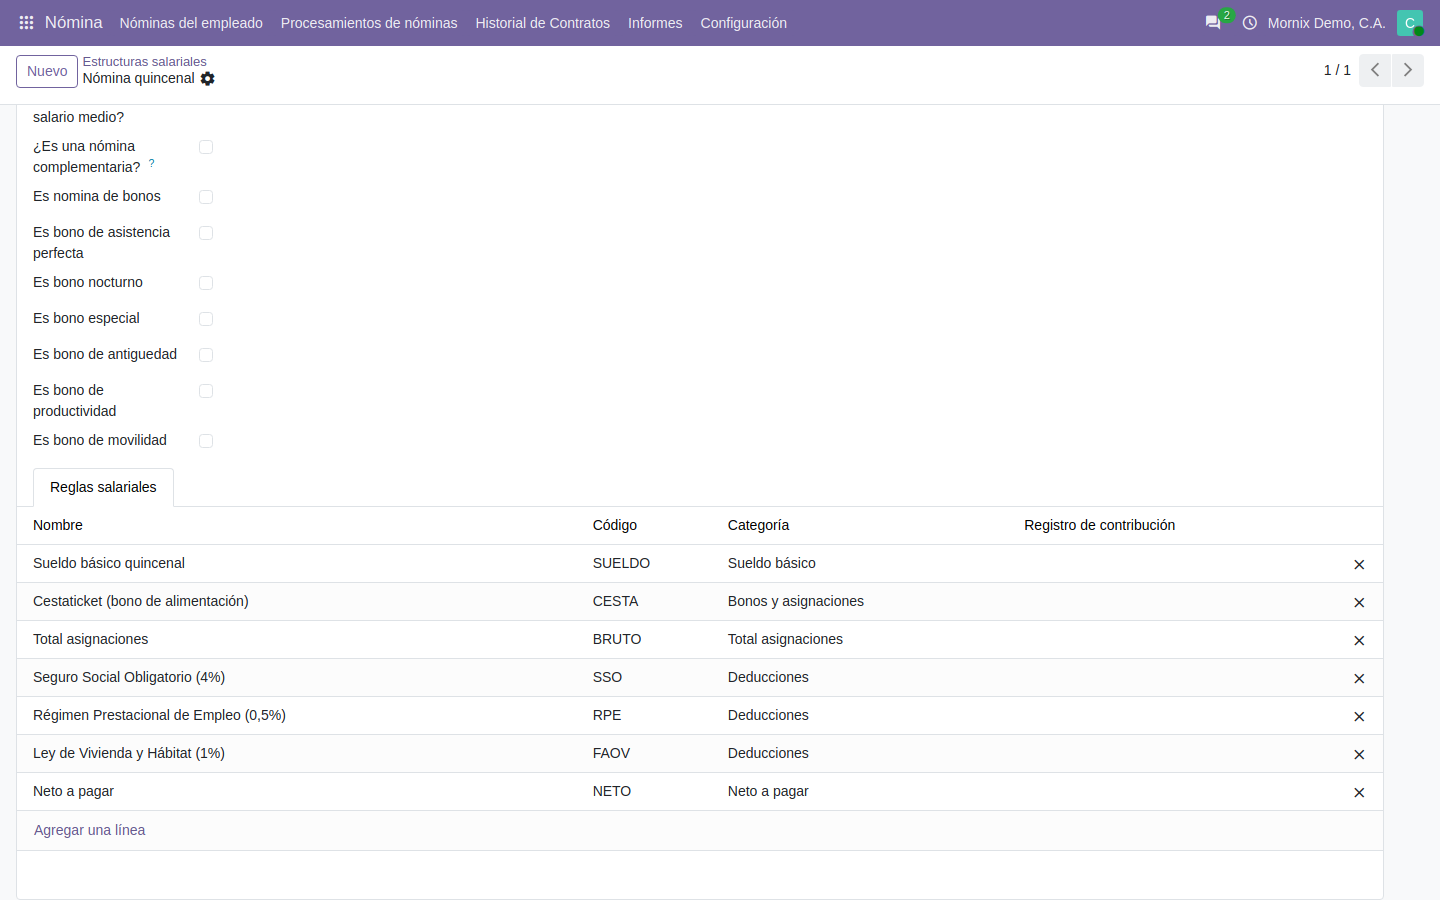
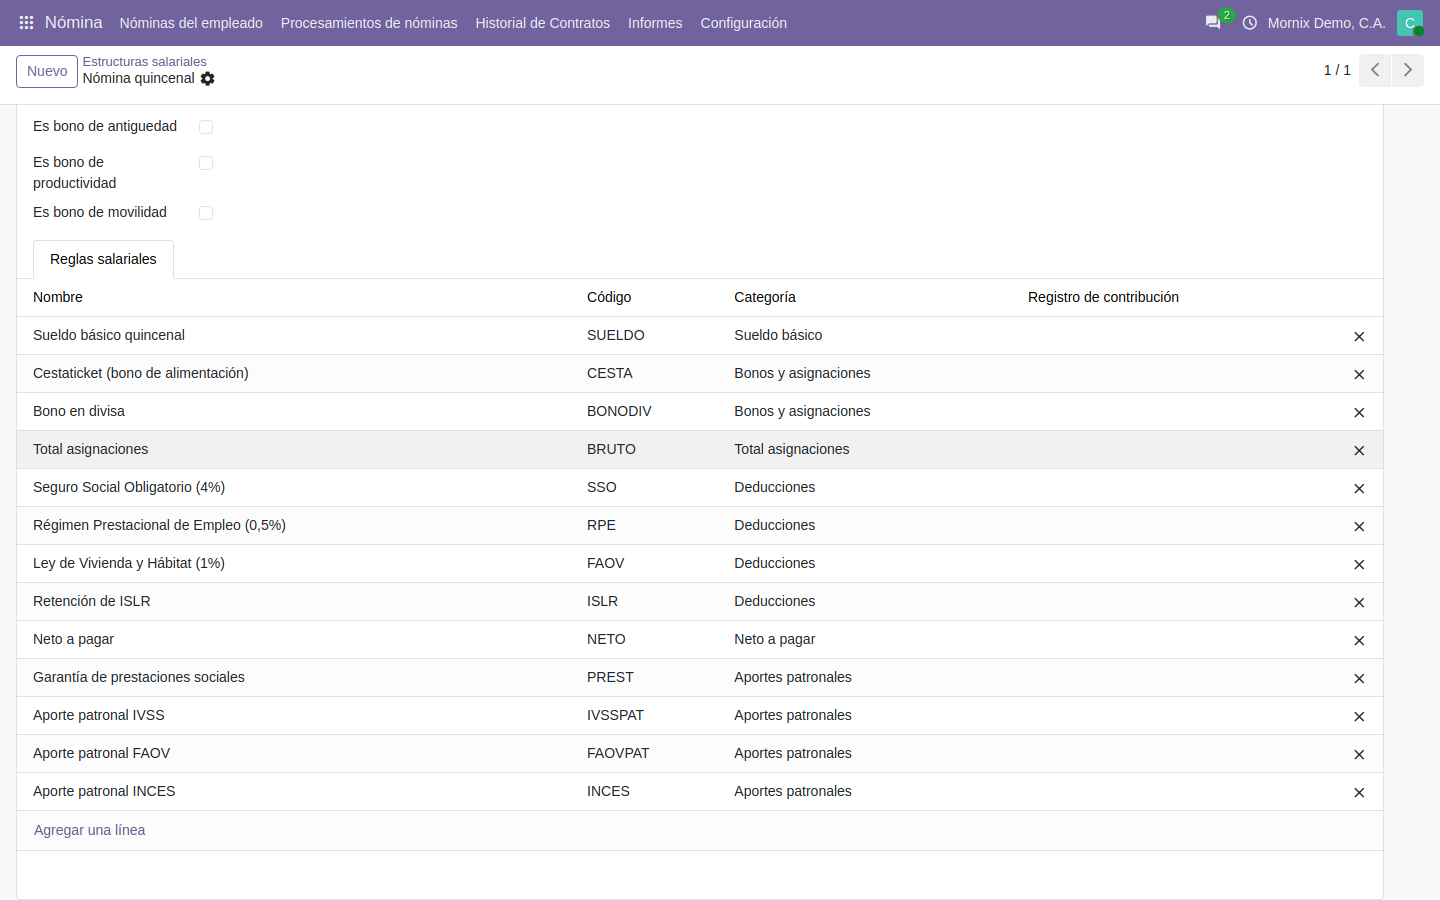
El tablero de nómina, con su guía
Cuarta guía de la aplicación Nómina: qué contesta cada indicador, por qué el
costo y el importe no dan lo mismo —una retención no es costo— y dónde se
corrige la clasificación cuando un total sale corto.

Las capturas salen de `nomina_demo`, que ahora lleva aportes patronales,
prestaciones, ISLR y un bono en divisa: antes la mitad de los indicadores
salían en cero.

Claude-Session: https://claude.ai/code/session_01Sgw9BHg9PFf2A9ESMHNkcZ

diff --git a/modulos/nomina.md b/modulos/nomina.md
@@ -48,12 +48,12 @@ trampa, explicada abajo.
 
 | | |
 |---|---|
-| Módulos del cliente | 54 en el árbol (55 en el origen) |
+| Módulos del cliente | 55 en el árbol (54 migrados + el tablero, escrito aquí) |
 | Motor de nómina | 1 (`payroll`, OCA adaptado) |
 | Python | 346 archivos · 15.467 líneas |
 | XML | 155 archivos · 9.495 líneas |
 | Motor OCA | 32 archivos · 3.655 líneas de Python |
-| Pruebas | **102**, en 11 módulos |
+| Pruebas | **112**, en 12 módulos |
 
 Reparto de las pruebas:
 
@@ -63,6 +63,7 @@ Reparto de las pruebas:
 | `payroll` (motor OCA) | 27 |
 | `mnx_l10n_ve_payroll_hr_contract_history` | 20 |
 | `l10n_ve_payroll_hr_payroll` | 10 |
+| `mornix_l10n_ve_payroll_dashboard` | 10 |
 | `l10n_ve_payroll_res_config_settings` | 3 |
 | resto (6 módulos) | 7 |
 
@@ -208,7 +209,56 @@ de solapes.
 tres sitios que lo miraban —cancelar un recibo, cancelar un lote, marcar como
 pagado— comprueban antes si el campo está.
 
-## 7. Cómo se comprueba
+## 7. El tablero: lo que se pregunta cada cierre
+
+`mornix_l10n_ve_payroll_dashboard`, escrito en esta migración, responde con
+datos las preguntas que se repiten en toda implantación: costo total, reparto
+por regla, cestaticket, prestaciones acumuladas, parafiscales, incidencia de
+bonos —y cuánto de eso va en divisa— e ISLR retenido.
+
+**El problema de fondo no es sumar: es saber qué suma dónde.** Los códigos de
+las reglas los pone cada implantación, así que una lista fija de códigos dentro
+del informe funciona en un cliente y miente en el siguiente. La solución es que
+cada regla lleve su **concepto** como un campo más:
+
+| | |
+|---|---|
+| Se propone | a partir del código de la regla (`CESTA` → cestaticket, `FAOVPAT` → FAOV) |
+| Se corrige | a mano, y entonces queda marcado y la propuesta no vuelve a tocarlo |
+| Lo que no encaja | cae en «Otro» y **sigue sumando**: no desaparece de los totales |
+
+Sobre eso va una vista SQL, `mnx.payroll.dashboard`, con una fila por línea de
+recibo y los importes en las dos monedas.
+
+**Dos decisiones que sostienen los números:**
+
+- **El bruto y el neto del recibo no son conceptos**, son sumas de lo demás. Se
+  clasifican como «Total del recibo» y **no entran en el costo**: con ellos
+  dentro, la demostración daba 593.705 donde el bruto real era 201.000 —el
+  triple, y sin que ningún número pareciera raro—.
+- **Una retención no es costo.** El ISLR ya está dentro del sueldo del que se
+  descuenta; sumarlo otra vez sería contar dos veces el mismo bolívar. Por eso
+  el costo son las **asignaciones más los aportes patronales**, y las
+  retenciones se informan aparte, en positivo.
+
+Tres roturas de v20 aparecieron construyéndolo:
+
+| Qué | Síntoma |
+|---|---|
+| `<group string="…">` en una vista de búsqueda | v20 no admite el atributo: la vista queda inválida y **no instala** |
+| `context_today().replace(...).strftime(...)` en el dominio de un filtro | El cliente no sabe evaluarlo: la pantalla se cae al abrirla. El filtro de periodo se declara con `date="campo"` |
+| Un modelo `_auto = False` sin `_depends` | El ORM no vuelca lo pendiente antes de leer: un recibo recién calculado **no aparece**. En pantalla casi no se nota; en una prueba falla siempre |
+
+Y un defecto propio, del mismo tipo que ya tenía el código de la regla: cambiar
+la secuencia de una regla recalcula su código, y eso **borraba la clasificación
+hecha a mano** sin decir nada. Se resolvió como lo resuelve
+`l10n_ve_payroll_automatic_rule_code` con `nx_code_manual`: una marca de «esto
+lo puso una persona».
+
+10 pruebas propias. La guía de uso está en
+[El tablero de nómina](../funcional/30-nomina/04-el-tablero.md).
+
+## 8. Cómo se comprueba
 
 Instalar de una vez sobre una base **nueva**, no sobre una que ya los tenga.
 
@@ -227,7 +277,7 @@ docker compose run --rm odoo20 odoo -d nomina_test -i <lista de modulos> \
 > sus datos**: Odoo lo salta y el comando termina en verde. Mirar el estado antes
 > de elegir entre `-i` y `-u`.
 
-## 8. Dónde vive el código
+## 9. Dónde vive el código
 
 El repositorio es `gregoriob20/mornix_nomina_20`, y Odoo lo lee desde
 `addons/nomina/` del repositorio de código.
@@ -245,9 +295,9 @@ python3 scripts/sincronizar_nomina.py --subir  # addons/nomina/ -> clon
 > `--subir` antes de commitear. Al revés, el contenedor sigue viendo lo viejo y
 > se depura código que no se está ejecutando.
 
-## 9. La guía de usuario
+## 10. La guía de usuario
 
-La rama funcional de la nómina son tres documentos, con capturas y recorridos en
+La rama funcional de la nómina son cuatro documentos, con capturas y recorridos en
 vídeo tomados de una quincena real:
 
 | Guía | Qué cubre |
@@ -255,6 +305,7 @@ vídeo tomados de una quincena real:
 | [Cómo se configura](../funcional/30-nomina/01-configuracion.md) | Tipo de estructura, estructura, reglas y el contrato del empleado |
 | [Procesar una quincena](../funcional/30-nomina/02-la-quincena.md) | Del lote vacío a los recibos confirmados |
 | [Historial y análisis](../funcional/30-nomina/03-historial-y-analisis.md) | Historial de contratos, renovación y el informe |
+| [El tablero de nómina](../funcional/30-nomina/04-el-tablero.md) | Costo total, cestaticket, prestaciones, parafiscales e ISLR |
 
 Las capturas se regeneran con un comando, contra una base de demostración con
 ocho empleados y dos quincenas:

diff --git a/funcional/30-nomina/04-el-tablero.md b/funcional/30-nomina/04-el-tablero.md
@@ -1,0 +1,84 @@
+# El tablero de nómina
+
+Responde con números las preguntas que se repiten cada cierre: cuánto cuesta la
+nómina, en qué se va, cuánto de cestaticket, cuánto se ha acumulado de
+prestaciones, cuánto de parafiscales y cuánto de ISLR.
+
+**Nómina → Informes → Tablero de nómina** (y **Costo total de nómina**, que es
+el mismo dato entrando por el gráfico).
+
+![El tablero, con el costo y el importe de cada concepto](../img/nomina-tablero-pivote.png)
+
+## 1. Las dos columnas, y por qué no dan lo mismo
+
+| Medida | Qué suma |
+|---|---|
+| **Costo para la empresa** | Asignaciones **más aportes patronales**: lo que de verdad sale de la empresa |
+| **Importe** | Lo que vale cada línea, retenciones incluidas |
+
+Una retención —ISLR, IVSS del trabajador— **no es costo**: ya está dentro del
+sueldo del que se descuenta. Por eso en la fila del ISLR el costo es 0 y el
+importe no: el importe dice cuánto se retuvo, que es otra pregunta.
+
+> **Las retenciones se leen en positivo.** En el recibo valen negativo, porque
+> así se calcula el neto; en el tablero se muestran como lo que son: «se
+> retuvieron 6.521,25», no «-6.521,25».
+
+## 2. Los indicadores
+
+Cada uno es un filtro, ya puesto:
+
+| Filtro | Qué contesta |
+|---|---|
+| **Cestaticket** | Cuánto se paga de bono de alimentación |
+| **Prestaciones sociales** | Cuánto se ha acumulado de garantía de prestaciones |
+| **Parafiscales (IVSS, RPE, FAOV, INCES)** | Cuánto se aporta y cuánto se retiene por cada uno |
+| **ISLR retenido** | El acumulado de retención, por empleado o por periodo |
+| **Bonos y beneficios adicionales** | Cuánto pesan sobre el costo |
+| **Con importe en divisa** | Solo lo que tiene equivalente en divisa |
+
+Y tres que separan quién paga qué: **Asignaciones**, **Aportes patronales** y
+**Retenciones al trabajador**.
+
+![El costo de la nómina por concepto](../img/nomina-tablero-costo.png)
+
+## 3. Cómo se cruza
+
+El tablero es un pivote: las agrupaciones ya preparadas son **concepto**,
+**regla salarial**, **naturaleza**, **empleado**, **departamento**,
+**estructura**, **lote** y **mes**. Cruzando concepto contra mes sale la
+evolución; concepto contra departamento, en qué área se va el dinero.
+
+> La «distribución de gastos por regla salarial» que suele pedir contabilidad
+> es este mismo tablero agrupando por **Regla salarial** en vez de por
+> concepto.
+
+Todo se exporta a hoja de cálculo con el botón de descarga del pivote.
+
+## 4. De dónde salen los conceptos
+
+Cada **regla salarial** lleva su concepto. **Nómina → Configuración → Reglas
+salariales**: la columna **Concepto del tablero** lo muestra, y se puede
+cambiar.
+
+![Las reglas, con su concepto](../img/nomina-reglas-listado.png)
+
+El sistema lo propone a partir del código de la regla —`CESTA` es cestaticket,
+`ISLR` es ISLR, `FAOVPAT` es FAOV— y **lo que se ponga a mano manda**: al
+corregirlo queda marcado como fijado a mano y la propuesta automática no vuelve
+a tocarlo, ni siquiera si luego cambia el código de la regla.
+
+> **Si un total sale corto, mire aquí primero.** El filtro **Reglas sin
+> clasificar** enseña las que el sistema no supo encuadrar: suman en «Otro», no
+> desaparecen, pero mientras estén ahí el desglose miente por omisión.
+
+## 5. Qué entra y qué no
+
+- Entran los recibos **por verificar, hechos y pagados**. La pre-nómina cuenta
+  a propósito: el tablero sirve sobre todo **antes** de cerrar la quincena, que
+  es cuando todavía se puede corregir.
+- Los recibos en **borrador** no entran.
+- **El bruto y el neto del recibo no suman**: son la suma de lo demás. Están
+  clasificados como «Total del recibo» y el tablero los oculta por defecto; si
+  quiere cuadrar contra un recibo concreto, quite el filtro **Sin los totales
+  del recibo** y aparecen.
